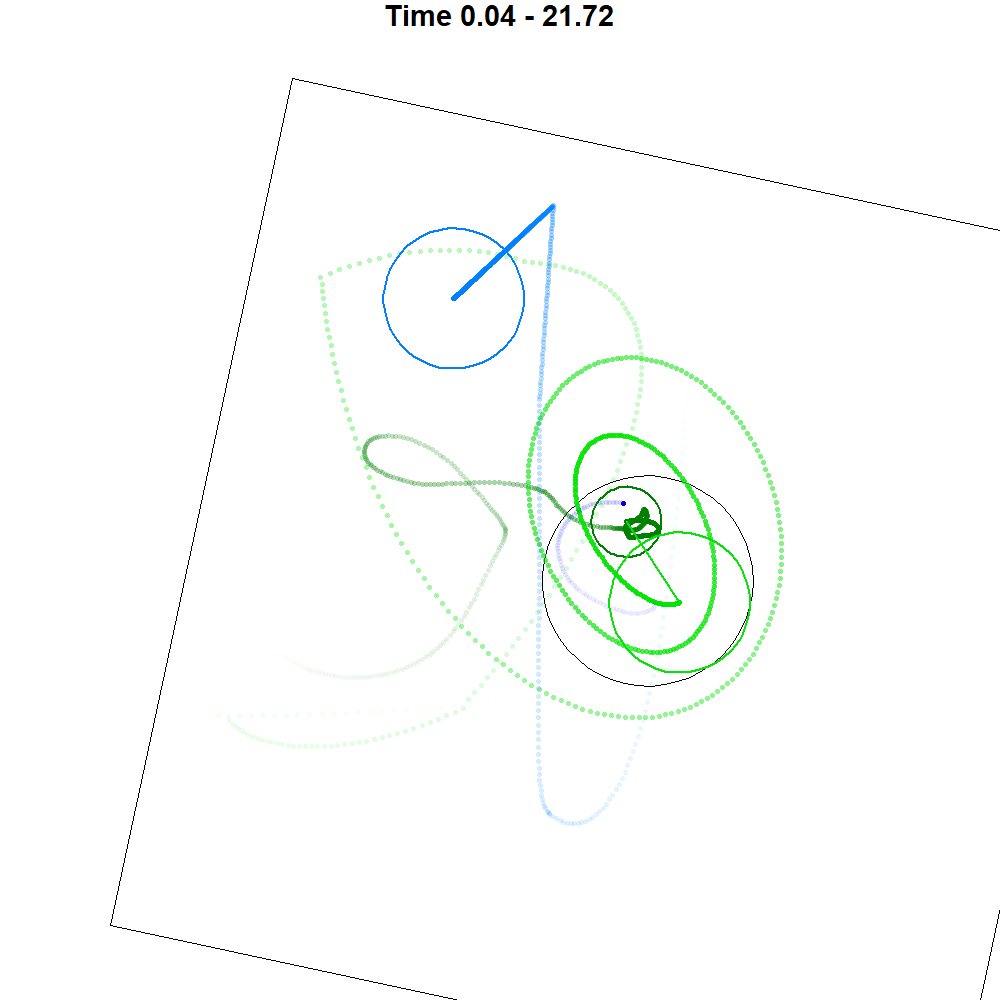
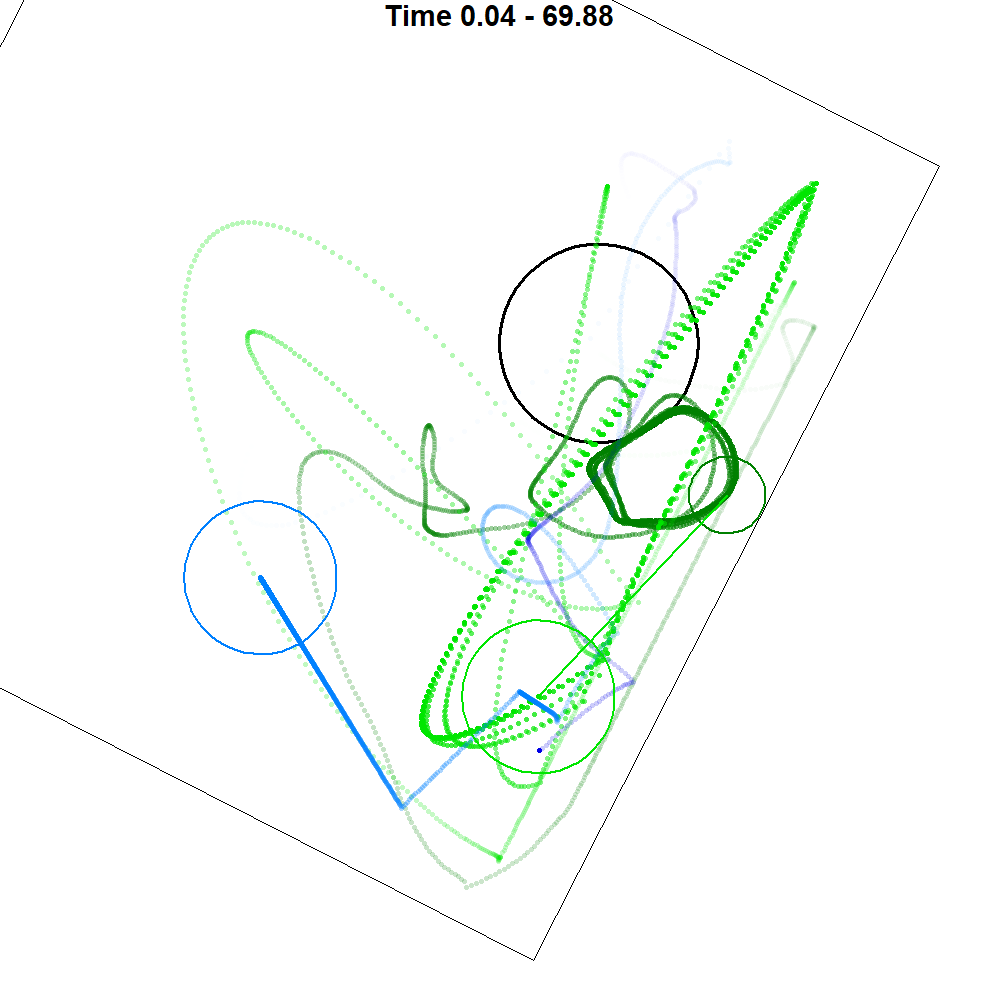
clean up

diff --git a/guard/generator.py b/guard/generator.py
@@ -16,7 +16,7 @@ class DataGenerator:
         self.batch_size = batch_size
         self.world_count = 64*self.batch_size
         self.world = World(self.world_count, self.time_step)
-        self.ring_size = 20
+        self.ring_size = 13
         self.agent0 = Agent(self.world, 0)
         self.blade0 = Blade(self.world, self.agent0)
         self.agent1 = Agent(self.world, 1)
@@ -131,6 +131,39 @@ class DataGenerator:
         self.blade1.position[0] = torch.einsum('ij,j->i', self.rotation[0], b1_min + (b1_max - b1_min) * torch.rand(2))
         self.update()
 
+    def get_action_values(self)->Tensor:
+        assert self.batch_size == 1, f'get_action_values requires batch_size=1, got {self.batch_size}'
+        self.value_model.eval()
+        with torch.no_grad():
+            # Save world 0 state
+            saved = [(c.position[0].clone(), c.velocity[0].clone()) for c in self.world.circles]
+            saved_alive0 = self.agent0.alive[0].clone()
+            saved_alive1 = self.agent1.alive[0].clone()
+            # Broadcast world 0 to all 64 worlds
+            for c in self.world.circles:
+                c.position[:] = c.position[0]
+                c.velocity[:] = c.velocity[0]
+            self.agent0.alive[:] = saved_alive0
+            self.agent1.alive[:] = saved_alive1
+            # Step and evaluate
+            self.world.step()
+            self.update()
+            outcome_values = torch.sigmoid(self.value_model(self.state))
+            q = outcome_values.view(8, 8)  # (agent0_actions, agent1_actions)
+            # Restore world 0
+            for c, (pos, vel) in zip(self.world.circles, saved):
+                c.position[0] = pos
+                c.velocity[0] = vel
+            self.agent0.alive[0] = saved_alive0
+            self.agent1.alive[0] = saved_alive1
+            return q
+
+    def get_minimax_actions(self)->tuple[int,int]:
+        q = self.get_action_values()
+        action0 = int(q.amin(dim=1).argmax().item())  # agent0 maximizes worst-case over agent1
+        action1 = int(q.amax(dim=0).argmin().item())  # agent1 minimizes best-case over agent0
+        return action0, action1
+
     def get_simulation_state(self)->Tensor:
         origin = self.world.agents[1].position
         wallPoints = vision_cast(origin,vision_reach,self.world.boundary)   # (n,8,2)
@@ -157,11 +190,16 @@ class DataGenerator:
         self.agent1.alive = self.agent1.alive & (self.gap1 > 15)
         ring_dist0 = torch.norm(self.agent0.position, p=2, dim=1, keepdim=True)
         ring_dist1 = torch.norm(self.agent1.position, p=2, dim=1, keepdim=True)
-        inRing0 = ring_dist0 < self.ring_size - self.agent0.radius
-        inRing1 = ring_dist1 < self.ring_size - self.agent1.radius
+        key_dist = self.ring_size - self.agent0.radius
+        inRing0 = ring_dist0 < key_dist
+        inRing1 = ring_dist1 < key_dist
         charging0 = inRing0 & self.agent0.alive
         charging1 = inRing1 & self.agent1.alive
-        self.reward = 0.5 + 0.5*charging0.float() - 0.5*charging1.float()
+        ring_near0 = self.agent0.alive.float()*torch.sigmoid(0.1*(key_dist-ring_dist0))
+        ring_near1 = self.agent1.alive.float()*torch.sigmoid(0.1*(key_dist-ring_dist1))
+        dist_reward = 0.5 + 0.5*ring_near0 - 0.5*ring_near1
+        ring_reward = 0.5 + 0.5*charging0.float() - 0.5*charging1.float()
+        self.reward = 0.9*ring_reward + 0.1*dist_reward
 
     def generate(self, horizon: int)->tuple[Tensor,...]:
         p = 0.005 # Discount Rate

diff --git a/guard/game.py b/guard/game.py
@@ -74,7 +74,7 @@ class Game(arcade.Window):
         self.log_file = open("./simulation/simulation.csv", mode='w', newline="")
         self.log_writer = csv.writer(self.log_file)
         self.log_writer.writerow([
-            "frame","time","life0","life1",
+            "horizon","frame","time","life0","life1",
             "a0_x", "a0_y", "a0_vx", "a0_vy",
             "b0_x", "b0_y", "b0_vx", "b0_vy",
             "a1_x", "a1_y", "a1_vx", "a1_vy",
@@ -165,7 +165,7 @@ class Game(arcade.Window):
         generator.agent1.action = torch.argmax(action_values1, dim=1)
         # generator.agent0.action[self.index] = self.get_user_action()
         row = [
-            self.frame_counter+1,self.world.time,
+            horizon,self.frame_counter+1,self.world.time,
             self.generator.agent0.alive[self.index,0].int().item(),
             self.generator.agent1.alive[self.index,0].int().item(),
             agentPosition0[0].detach().item(), agentPosition0[1].detach().item(), 
@@ -216,11 +216,13 @@ class Game(arcade.Window):
 checkpoint_path = './checkpoints/checkpoint.pt'
 value_model = ValueModel()
 value_model.eval()
+horizon = 0
 
 if os.path.exists(checkpoint_path):
     print('Loading Value Checkpoint...')
     value_checkpoint = torch.load(checkpoint_path, weights_only=False)
     value_model.load_state_dict(value_checkpoint['model_state_dict'])
+    horizon = value_checkpoint.get('horizon', 0)
 
 generator = DataGenerator(value_model,batch_size=1,time_step=0.04)
 

diff --git a/guard/train.py b/guard/train.py
@@ -43,7 +43,7 @@ else:
 for param_group in value_optimizer.param_groups:
     param_group['lr'] = 1e-4
 
-# horizon = 0
+# horizon = 1
 # batch = 0
 
 batch_size = 3000

diff --git a/guard/value.py b/guard/value.py
@@ -18,7 +18,7 @@ class ValueModel(nn.Module):
     def forward(self, x: Tensor)->Tensor:
         x = 0.01 * self.projection(x)
         for norm, layer in zip(self.layer_norms, self.hidden_layers):
-            x = x + layer(F.silu(norm(x)))
+            x = x + layer(F.elu(norm(x)))
         return self.output_layer(self.final_norm(x))
     def __call__(self, *args, **kwds)->Tensor:
         return super().__call__(*args, **kwds)